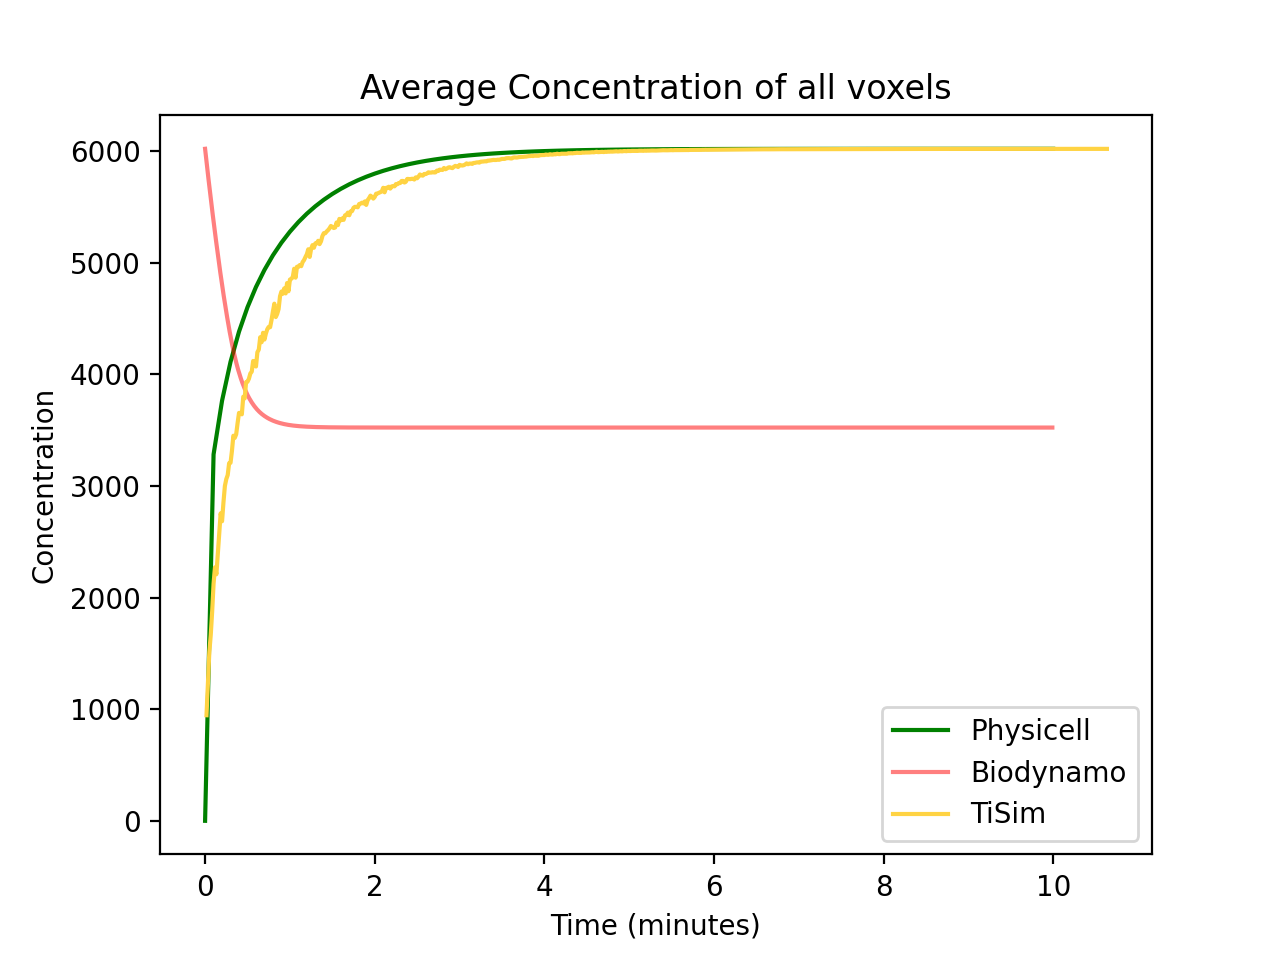
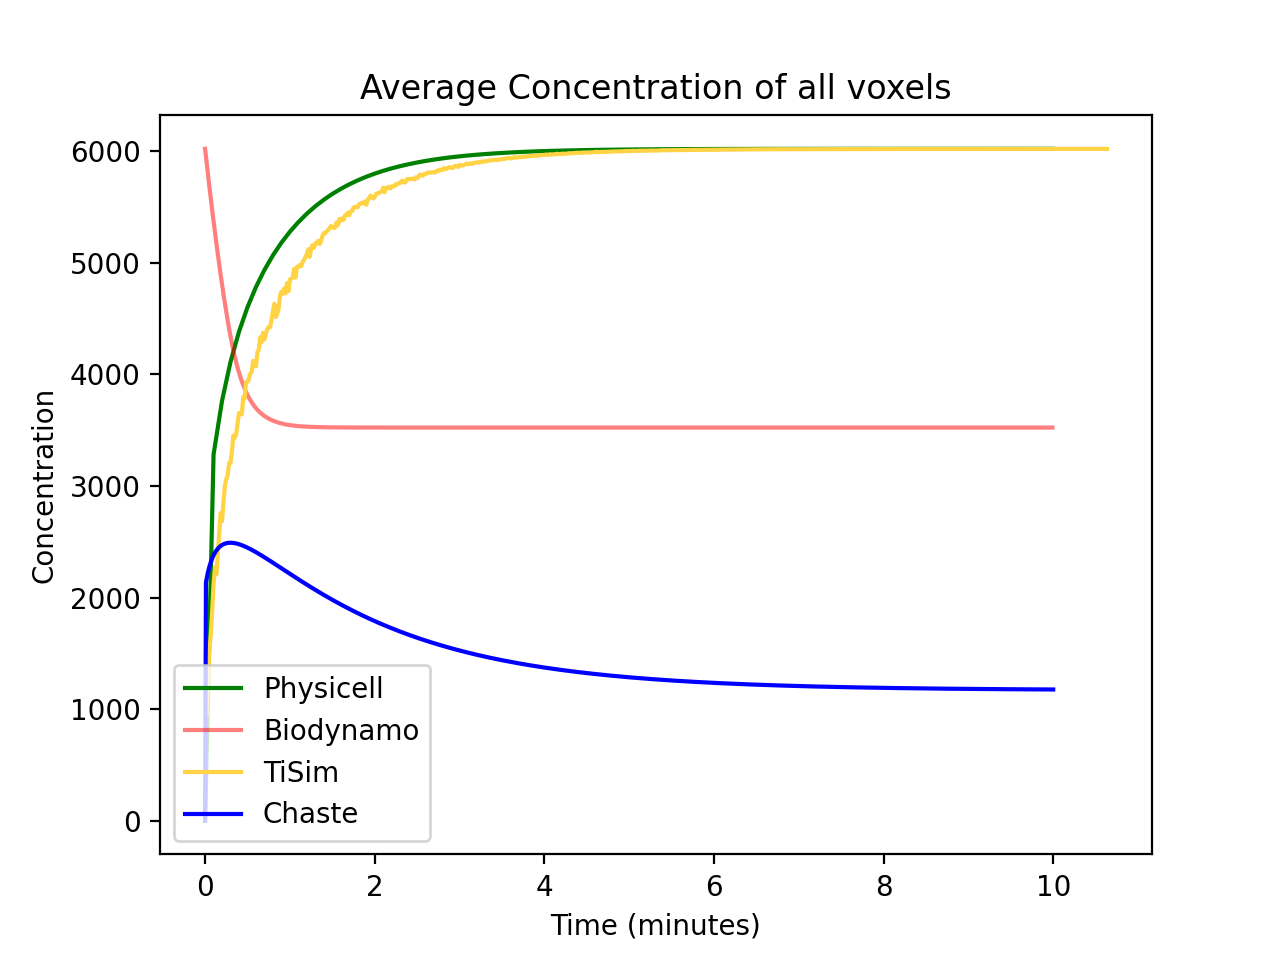
included chaste in figures

diff --git a/multiscale_benchmark/2022_09_hackathon/analysis/single_diffusion_o2_central_voxel.py b/multiscale_benchmark/2022_09_hackathon/analysis/single_diffusion_o2_central_voxel.py
@@ -25,7 +25,8 @@ def get_tisim_df(file):
     return df
 
 def get_chaste_df(file):
-    df= pd.read_csv(file,delimiter="\t",names = ['timestep','diff'],header=0)
+    df= pd.read_csv(file,delim_whitespace=True,names = ['timestep','diff'],header=0)
+    print(df)
     return df
 
 
@@ -40,7 +41,8 @@ def main():
                     default="../Biodynamo/unit_test_diffusion/results/concentration.csv")
     parser.add_argument("--ts-csv",action="store", dest = "ts_csv", help="Path to TiSim concentration over time csv",
                     default="../Tisim/unit_test_diffusion/results/result_1c_diffusion.txt")
-    # parser.add_argument("ch_csv", help="Path to Chaste concentration over time csv")
+    parser.add_argument("--ch-csv",action="store",dest = "ch_csv", help="Path to Chaste concentration over time csv",
+                        default="../Chaste/unit_test_diffusion/results/TestDiffusionSmall03.dat")
     
     args = parser.parse_args()
     
@@ -49,14 +51,14 @@ def main():
     pc_conc = get_physicell_df(args.pc_csv)
     bd_conc = get_biodynamo_df(args.bd_csv)
     ts_conc = get_tisim_df(args.ts_csv)
-#   ch_conc = get_chaste_df(args.ch_csv)
+    ch_conc = get_chaste_df(args.ch_csv)
 
 
 
     plt.plot(pc_conc['timestep'],pc_conc['diff'],label = 'Physicell',color='green')
     plt.plot(bd_conc.index,bd_conc['diff']*602.2,label = 'Biodynamo',alpha=0.5,color = 'red')
     plt.plot(ts_conc['timestep'],ts_conc['diff']*602.2,label = 'TiSim', color  = '#ffd343')
-    # plt.plot(ch_conc['timestep'],ch_conc['diff'],label = 'Chaste', color  = 'blue')
+    plt.plot(ch_conc['timestep'],ch_conc['diff']*602.2,label = 'Chaste', color  = 'blue')
     plt.ylabel("Concentration")
     plt.xlabel("Time (minutes)")
     plt.legend()

diff --git a/multiscale_benchmark/2022_09_hackathon/analysis/many_diffusion_average_concentration.py b/multiscale_benchmark/2022_09_hackathon/analysis/many_diffusion_average_concentration.py
@@ -31,7 +31,7 @@ def get_tisim_df(file):
     return df
 
 def get_chaste_df(file):
-    df= pd.read_csv(file,delimiter="\t",names = ['timestep','diff'],header=0)
+    df= pd.read_csv(file,delim_whitespace=True,names = ['timestep','diff'],header=0)
     return df
 
 
@@ -46,8 +46,8 @@ def main():
                     default="../Biodynamo/unit_test_diffusion_1k/results/concentration_avg.csv")
     parser.add_argument("--ts-csv",action="store", dest = "ts_csv", help="Path to TiSim concentration over time csv",
                     default="../Tisim/unit_test_diffusion_1k/results/result_1000c_diffusion.txt")
-    # parser.add_argument("ch_csv", help="Path to Chaste concentration over time csv")
-    
+    parser.add_argument("--ch-csv",action="store",dest = "ch_csv", help="Path to Chaste concentration over time csv",
+                        default="../Chaste/unit_test_diffusion_1k/results/TestDiffusionSmall12.dat")    
     args = parser.parse_args()
     
 
@@ -55,14 +55,14 @@ def main():
     pc_conc = get_physicell_df(args.pc_csv)
     bd_conc = get_biodynamo_df(args.bd_csv)
     ts_conc = get_tisim_df(args.ts_csv)
-#   ch_conc = get_chaste_df(args.ch_csv)
+    ch_conc = get_chaste_df(args.ch_csv)
 
 
 
     plt.plot(pc_conc.index,pc_conc['diff'],label = 'Physicell',color='green')
     plt.plot(bd_conc.index,bd_conc[1]*602.2,label = 'Biodynamo',alpha=0.5,color = 'red')
     plt.plot(ts_conc.index,ts_conc['diff']*602.2,label = 'TiSim', color  = '#ffd343')
-    # plt.plot(ch_conc['timestep'],ch_conc['diff'],label = 'Chaste', color  = 'blue')
+    plt.plot(ch_conc['timestep'],ch_conc['diff']*602.2,label = 'Chaste', color  = 'blue')
     plt.ylabel("Concentration")
     plt.xlabel("Time (minutes)")
     plt.legend()
